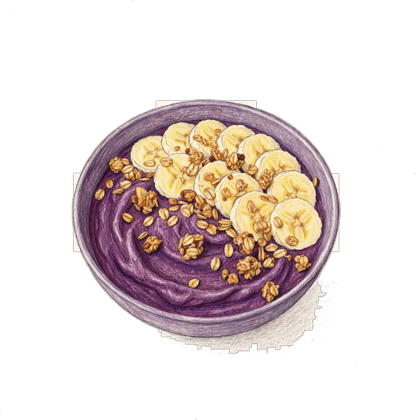
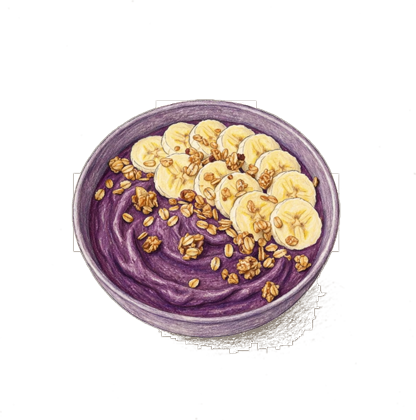
Clean paper scraps off the paintings
SAM's mask closing treated the mask's own border as filled, which drew lines
along its edges; shrinking now counts the area beyond the edge as empty. The
lift also clears paper-colored scraps just outside SAM's outline. The
catalog's painted dishes were re-cleaned with SAM masks of the paintings.

Claude-Session: https://claude.ai/code/session_013f1sAe64TqFkDagamZiBgh

Changed region(s): [[0.4375, 0.681, 0.7812, 0.8357], [0.375, 0.7738, 0.4375, 0.8048]]

diff --git a/src/shared/lift.ts b/src/shared/lift.ts
@@ -44,7 +44,9 @@ export function lift(px: Uint8ClampedArray | Uint8Array, w: number, h: number, k
   // With SAM's mask, anything clearly outside the dish is paper (or its shadow), even where the paper is uneven.
   if (keep) {
     const near = box(keep, w, h, r * 2, true);
-    for (let i = 0; i < n; i++) if (!near[i]) out[i] = 1;
+    const loose = (i: number) => Math.max(Math.abs(px[i * 4]! - bg[0]), Math.abs(px[i * 4 + 1]! - bg[1]), Math.abs(px[i * 4 + 2]! - bg[2])) < TOLERANCE * 2;
+    // Right at the dish's edge, paper-colored scraps outside SAM's outline go too.
+    for (let i = 0; i < n; i++) if (!near[i] || (!keep[i] && loose(i))) out[i] = 1;
   }
 
   // Keep the object: specks of paper texture the flood could not reach are dropped, as is anything far smaller

diff --git a/src/server/meta.ts b/src/server/meta.ts
@@ -333,8 +333,8 @@ function morph(src: Uint8Array, width: number, height: number, r: number, dilate
       for (let k = 0; k < m; k++) {
         if (k + r < m) count += input[at(k + r)]!;
         if (k - r - 1 >= 0) count -= input[at(k - r - 1)]!;
-        const span = Math.min(m - 1, k + r) - Math.max(0, k - r) + 1;
-        out[at(k)] = dilate ? (count > 0 ? 1 : 0) : count === span ? 1 : 0;
+        // Shrinking counts the area beyond the edge as empty, so closing a mask never draws lines along its border.
+        out[at(k)] = dilate ? (count > 0 ? 1 : 0) : count === 2 * r + 1 ? 1 : 0;
       }
     }
     return out;
